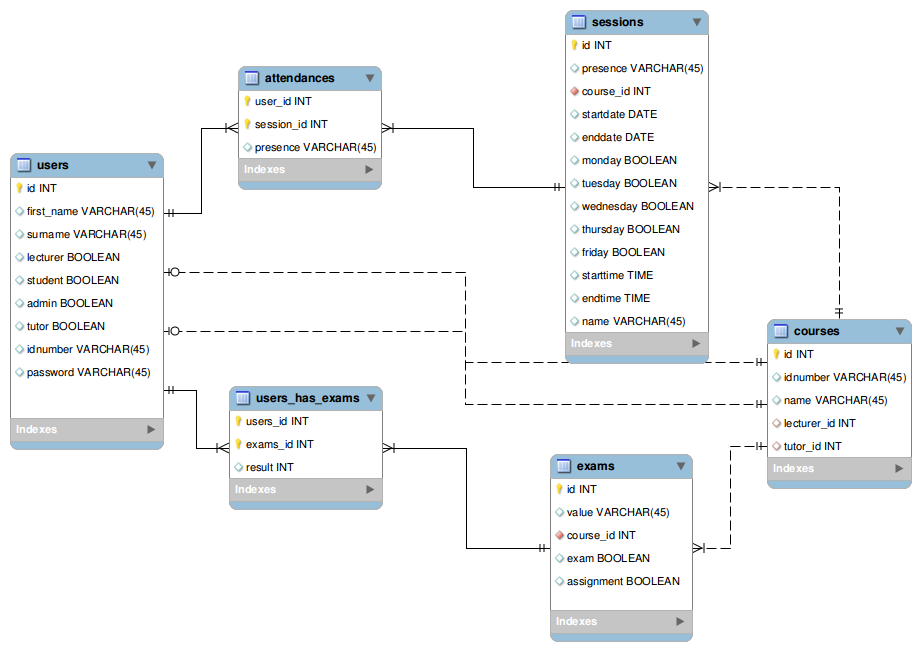
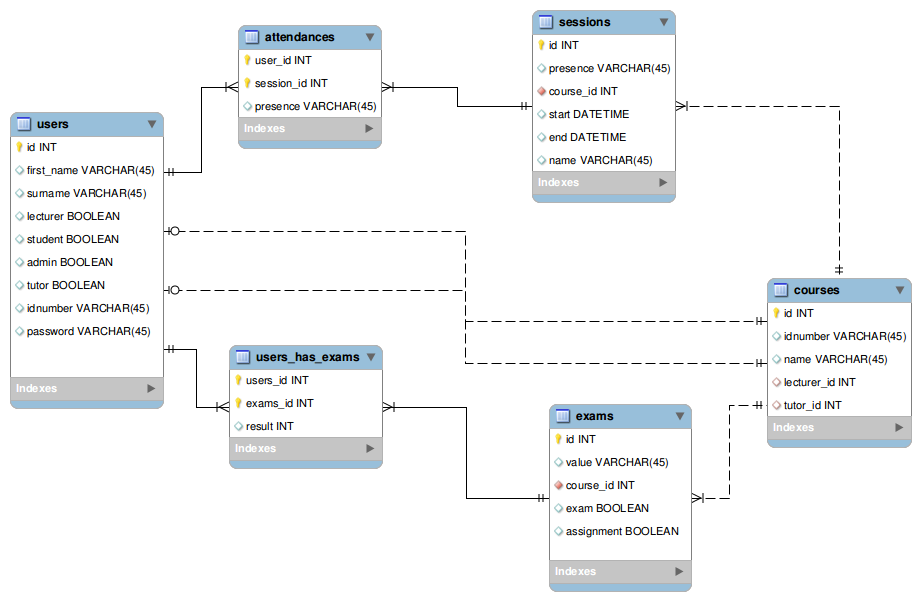
Update database modelling for sessions to support repeated sessions

diff --git a/backend/Design.py b/backend/Design.py
@@ -6,39 +6,89 @@ Base = declarative_base()
 class User(Base):
     __tablename__ = 'users'
     id = Column(Integer, primary_key=True)
-    first_name = Column(String)
+    idnumber = Column(String)
     password = Column(String)
+    first_name = Column(String)
     surname = Column(String)
     student = Column(Boolean)
     lecturer = Column(Boolean)
     tutor = Column(Boolean)
-    def __init__(self, first_name, password, surname, student, lecturer, tutor):
+    admin = Column(Boolean)
+    def __init__(self, first_name, password, surname, idnumber, student=False, lecturer=False, tutor=False, admin=False):
         self.first_name = first_name 
         self.password = password
         self.surname = surname
         self.student = student
         self.lecturer = lecturer
         self.tutor = tutor
+        self.idnumber = idnumber
+        self.admin = admin
 
 class Exam(Base):
     __tablename__ = 'exams'
     id = Column(Integer, primary_key=True)
-    student_id = Column(Integer, ForeignKey('users.id'))
+    value = Column(Integer)
+    exam = Column(Boolean)
+    assignment = Column(Boolean)
     course_id = Column(Integer, ForeignKey('courses.id'))
-    def __init__(self, course, student):
+    def __init__(self, value, course, exam=False, assignment=False):
+        self.value = value
+        self.exam = exam
+        self.assignment = assignment
         self.course_id = course.id
-        self.student_id = student.id
+
+class UserHasExam(Base):
+    __tablename__ = 'users_has_exams'
+    id = Column(Integer, primary_key=True)
+    user_id = Column(Integer, ForeignKey('users.id'))
+    exam_id = Column(Integer, ForeignKey('exams.id'))
+    result = Column(Integer)
+    def __init__(self, user, exam, result):
+        self.user_id = user.id
+        self.exam_id = exam.id
+        self.result = result
 
 class Course(Base):
     __tablename__ = 'courses'
     id = Column(Integer, primary_key=True)
+    idnumber = Column(String)
     name = Column(String)
-    def __init__(self, name):
+    lecturer_id = Column(Integer, ForeignKey('users.id'), nullable=True)
+    tutor_id = Column(Integer, ForeignKey('users.id'), nullable=True)
+    def __init__(self, idnumber, name, lecturer=None, tutor=None):
+        if lecturer == None:
+            lecturer_id = None
+        else:
+            lecturer_id = lecturer.id
+        if tutor == None:
+            tutor_id = None
+        else:
+            tutor_id = tutor.id
+        self.idnumber = idnumber
         self.name = name
+        self.lecturer_id = lecturer_id
+        self.tutor_id = tutor_id
 
-#TODO Bruno, I don't understand this code -- Adam
-user_has_exam = Table('user_has_exam', Base.metadata,
-                      Column('user_id', Integer, ForeignKey('users.id')),
-                      Column('exam_id', Integer, ForeignKey('exams.id')))
+class ClassSession(Base):
+    __tablename__ = 'sessions'
+    id = Column(Integer, primary_key=True)
+    course_id = Column(Integer, ForeignKey('courses.id'))
+    name = Column(String)
+    start = Column(DateTime)
+    end = Column(DateTime)
+    def __init__(self, course, name, start, end):
+        self.course_id = course.id
+        self.name = name
+        self.start = start
+        self.end = end
 
-
+class Attendance(Base):
+    __tablename__ = 'attendances'
+    id = Column(Integer, primary_key=True)
+    user_id = Column(Integer, ForeignKey('users.id'))
+    session_id = Column(Integer, ForeignKey('sessions.id'))
+    presence = Column(String)
+    def __init__(self, user, session, presence):
+        self.user_id = user.id
+        self.session_id = session.id
+        self.presence = presence

diff --git a/crash_course.py b/crash_course.py
@@ -1,33 +1,37 @@
 from backend import User, Course, Exam, Session
+from datetime import datetime
 # quick crash course on working with the backend
 
 # ================================ Example 1 ==================================
 # this block automagically opens and closes the connection to the database.
 # before closing the connection it automatically flushes all the files.
 with Session() as s:
+
     users = [User(first_name='Adam',
                   surname='Kurkiewicz',
+                  idnumber='0',
                   password='pass',
-                  student=True,
-                  lecturer=False,
-                  tutor=False),
+                  student=True),
              User(first_name='Bruno',
                   surname='Peres',
+                  idnumber='1',
                   password='pass',
-                  student=True,
-                  lecturer=False,
-                  tutor=False),
+                  student=True),
              User(first_name='Gabrielius',
                   surname='Mickievicius',
+                  idnumber='2',
                   password='pass',
-                  student=True,
-                  lecturer=False,
-                  tutor=False)]
+                  student=True)]
 
-    courses = [Course("CS1P"),
-               Course("PL3"),
-               Course("PS3")]
-    
+    courses = [Course("CS1P", ""),
+               Course("PL3", ""),
+               Course("PSD3", "")]
+
+    class_sessions = [ClassSession(courses[0],
+                                   "Lab 1", 
+                                   datetime.now(), 
+                                   datetime.now())]
+
     # this is important. If you don't add the objects, they will be inevitably lost
     s.add(users + courses)
 

diff --git a/backend/Database.py b/backend/Database.py
@@ -8,7 +8,7 @@ class Session(object):
     
     def __new__(cls, *args, **kwargs):
         if Session.instance is None:
-            Session.engine = sqlalchemy.create_engine('sqlite:///:memory:', echo=False)
+            Session.engine = sqlalchemy.create_engine('sqlite:///:memory:', echo=True)
             Session.instance = object.__new__(cls, *args, **kwargs)
             Session.session_factory = sessionmaker(bind=Session.engine)
 
